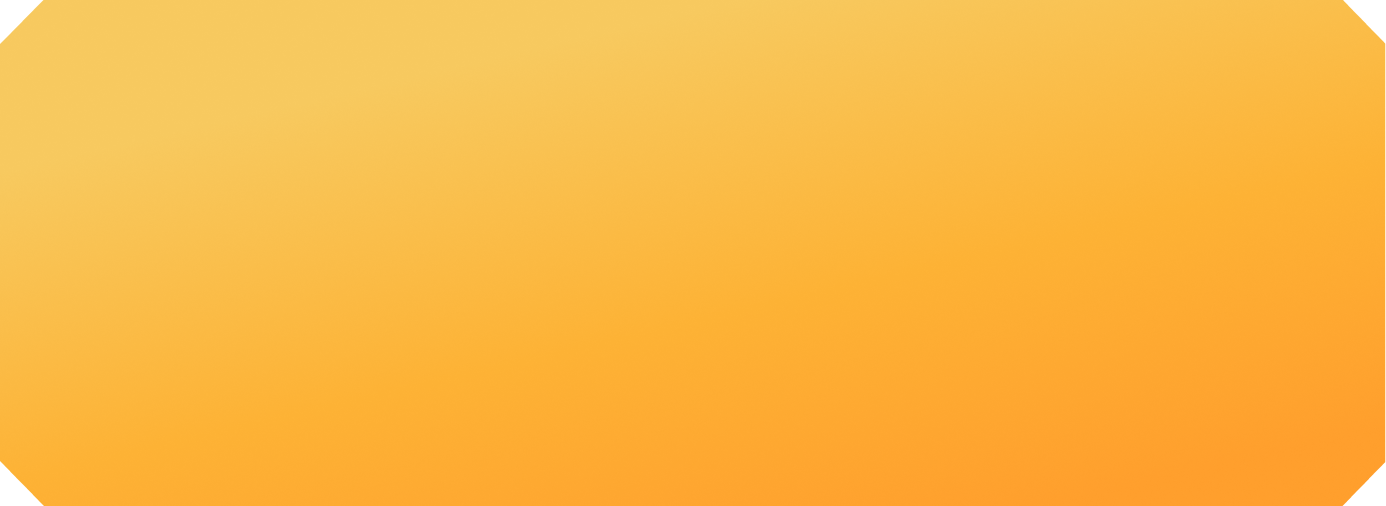
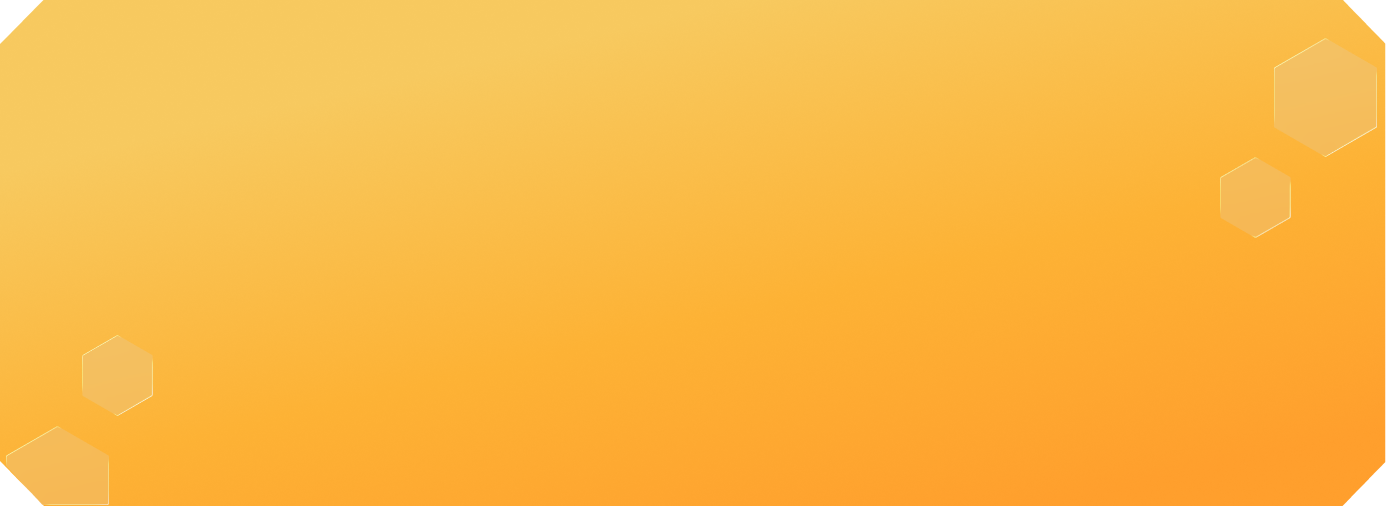
add

Changed region(s): [[0.8687, 0.0593, 0.9928, 0.4743], [0.0, 0.83, 0.0931, 1.0], [0.062, 0.6522, 0.1241, 0.83]]

diff --git a/src/views/HomeView.vue b/src/views/HomeView.vue
@@ -5,7 +5,7 @@
     </div>
     <div class="position-relative p-4">
       <img src="/img/aboutbg.png" width="100%" alt="">
-      <div class="row position-absolute row h-100 d-grid " style="top: 0; left: 0">
+      <div class="row position-absolute row h-100 d-grid " style="top: 0; right: 0">
         <div class="about row align-self-center col-8 mx-auto">
           <div class="col-4 text-center">
             <h1>
@@ -44,24 +44,23 @@
       </div>
 
     </div>
-    <div class="position-relative">
-      <img src="/img/faqbg.png" width="100%" alt="">
-      <div class="position-absolute w-100 " style="top: 0; right: 0;padding-top: 150px;">
-        <h1 class="w-100 mb-5 text-center">سـوالات مـتـداول</h1>
-        <div class="w-100 mt-5" style="overflow-x: scroll">
-          <div class="faq-inner d-flex" :style="{minWidth: width+'%'}">
-            <div v-for="(item,index) in faq" :key="index" class="faq">
-              <div class="faq-box bg-white me-4"
-                   :class="{'mt-5':index%2===1, 'ms-4':index===0, 'me-0':index===faq.length-1}">
-                <h1>{{ item.title }}</h1>
-                <p>{{ item.summary }}</p>
-              </div>
+    <div class="justify-content-center">
+      <div v-for="(item,index) in articles" :key="index" class="w-100 position-relative article px-4 mb-5">
+        <img v-if="index===0" src="/img/articlebgactive.png" width="100%" alt="">
+        <img v-else src="/img/articlebg.png" width="100%" alt="">
+        <div class="w-100 d-flex p-3 position-absolute justify-content-center"  style="top: 0;" :class="{'flex-row-reverse':index>1}">
+          <img :src="item.image" alt="">
+          <div class="d-flex position-relative" >
+            <img v-if="index===0"  src="/img/articleactive.png" alt="">
+            <img v-else-if="index>1" src="/img/articleeven.png" alt="">
+            <img v-else src="/img/articleodd.png" alt="">
+            <div class="position-absolute" style="top: 0; right: 0">
+              <h1>{{item.title}}</h1>
+              <p>{{item.summary}}</p>
             </div>
           </div>
-
         </div>
       </div>
-
     </div>
   </div>
 </template>
@@ -95,9 +94,15 @@ export default {
       },
 
     ];
+    const articles = [
+      {id:1,image:'/img/article1.png',title:'راهـکاری نوین برای تغذیه زنبـورهای عسـل',summary:'محصولات ما با هدف بهبـود سلامـت زنبــورها و افـزایـش بهرهوری تولید، طراحی شدهاند.'},
+      {id:2,image:'/img/article2.png',title:'نقطـه تـلاقی دانش، صنعت و طبیعـت',summary:'در عسل لذیذ، تلاش میکنیم راهـکارهـایی علـمی و کـاربـردی بـرای تـغـذیـه زنـبـور عسـل ارائه دهیم.'},
+      {id:3,image:'/img/article3.png',title:'پیـوند صنـعـت و عـلـم',summary:'همکاری با دانشگاه شهید بهشتی، بستری برای تحقیق، توسعه و بهبود مستمر محصولات ما فراهم کرده است.'},
+      {id:4,image:'/img/article4.png',title:'جـایـی بـرای تـوسـعـه محـصـول در دل طبـیـعـت',summary:'خوراک زنبور عسل کوپابی، پیش از ورود به بازار، در زنبورستان علمـی و تحـت شـرایط واقعی مـورد بررسـی و ارزیابی قرار میگیـرد تا از کیفیت، ایمنی و عملکرد قابل اعتماد آن اطمیـنان حـاصـل شــود.'},
+    ];
     const width = (faq.length * 300 / 100) + 100;
     return {
-      faq, width
+      faq, width, articles
     }
   }
 }
